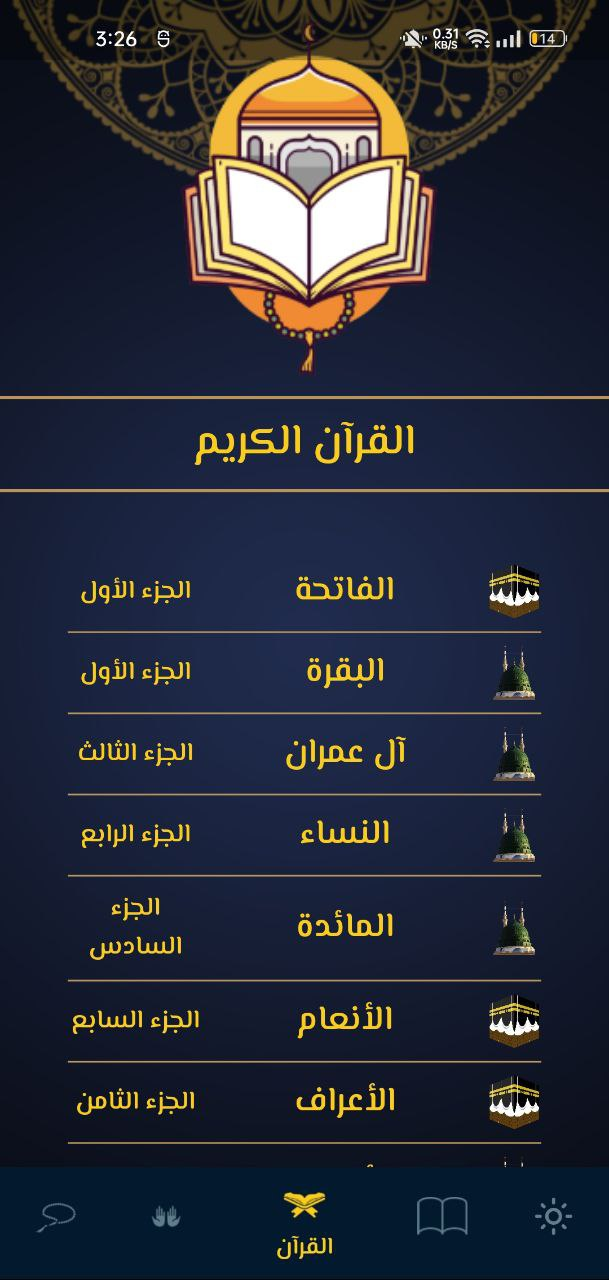
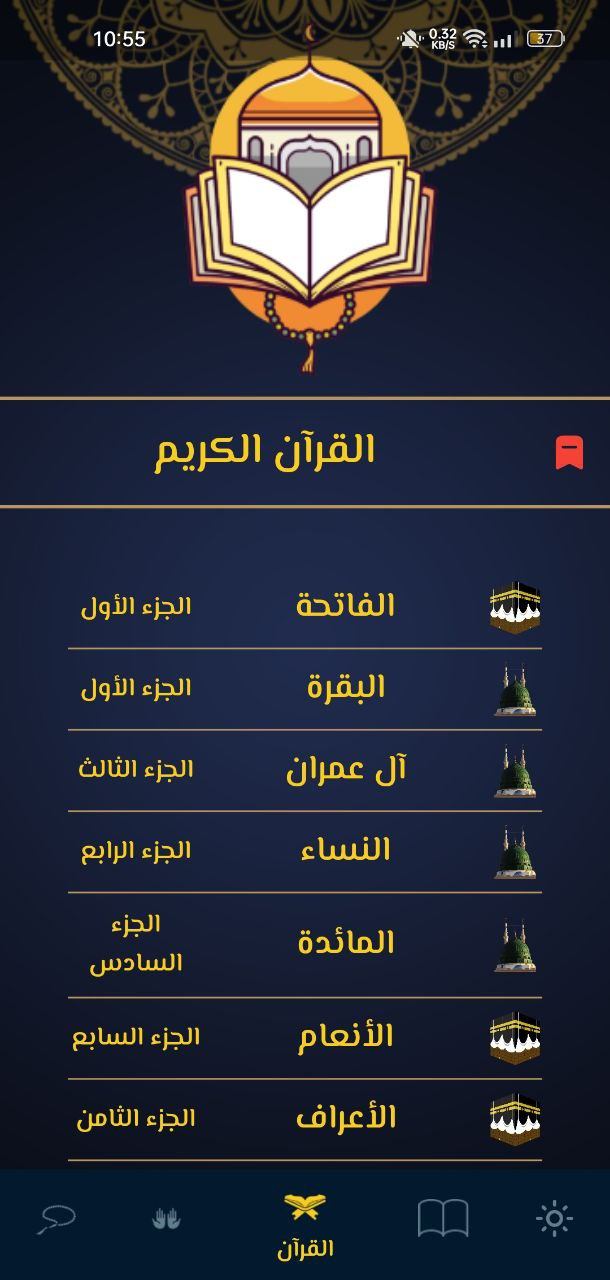
readme file

diff --git a/README.md b/README.md
@@ -8,6 +8,7 @@ Ana Muslim is a mobile application that provides access to Quran, Ahadeth, Doaa,
 - Ahadeth: Explore a collection of authentic Ahadeeth.
 - Doaa: Discover a variety of Islamic supplications (Adya).
 - Sebha: Engage in Dhikr using a digital Tasbeeh counter.
+- bookmarking: User can bookmark pages of Quran and back to this bookmark anytime.
 - Light and Dark Mode: Choose between light and dark themes for optimal reading.
 - Clean Code: Well-structured, clean code for easy understanding and maintenance.
 - Offline Functionality: App works without an internet connection for uninterrupted use.
@@ -34,6 +35,10 @@ Ana Muslim is a mobile application that provides access to Quran, Ahadeth, Doaa,
 | Sura Screen | Doaa Screen | Hadeth Screen |
 | :------: | :----------: | :----------: |
 | ![myAccount](screenshots/sura.jpg) | ![Settings](screenshots/doaa.jpg) | ![myAds](screenshots/hadeeth.jpg) |
+
+| Bookmarks Screen | Empty Bookmarks Screen |
+| :------: | :----------: |
+| ![conversations Screen](screenshots/bookmarks.jpg) | ![messaging Screen](screenshots/empty_bookmarks.jpg) |
 
 
 ## Installation
